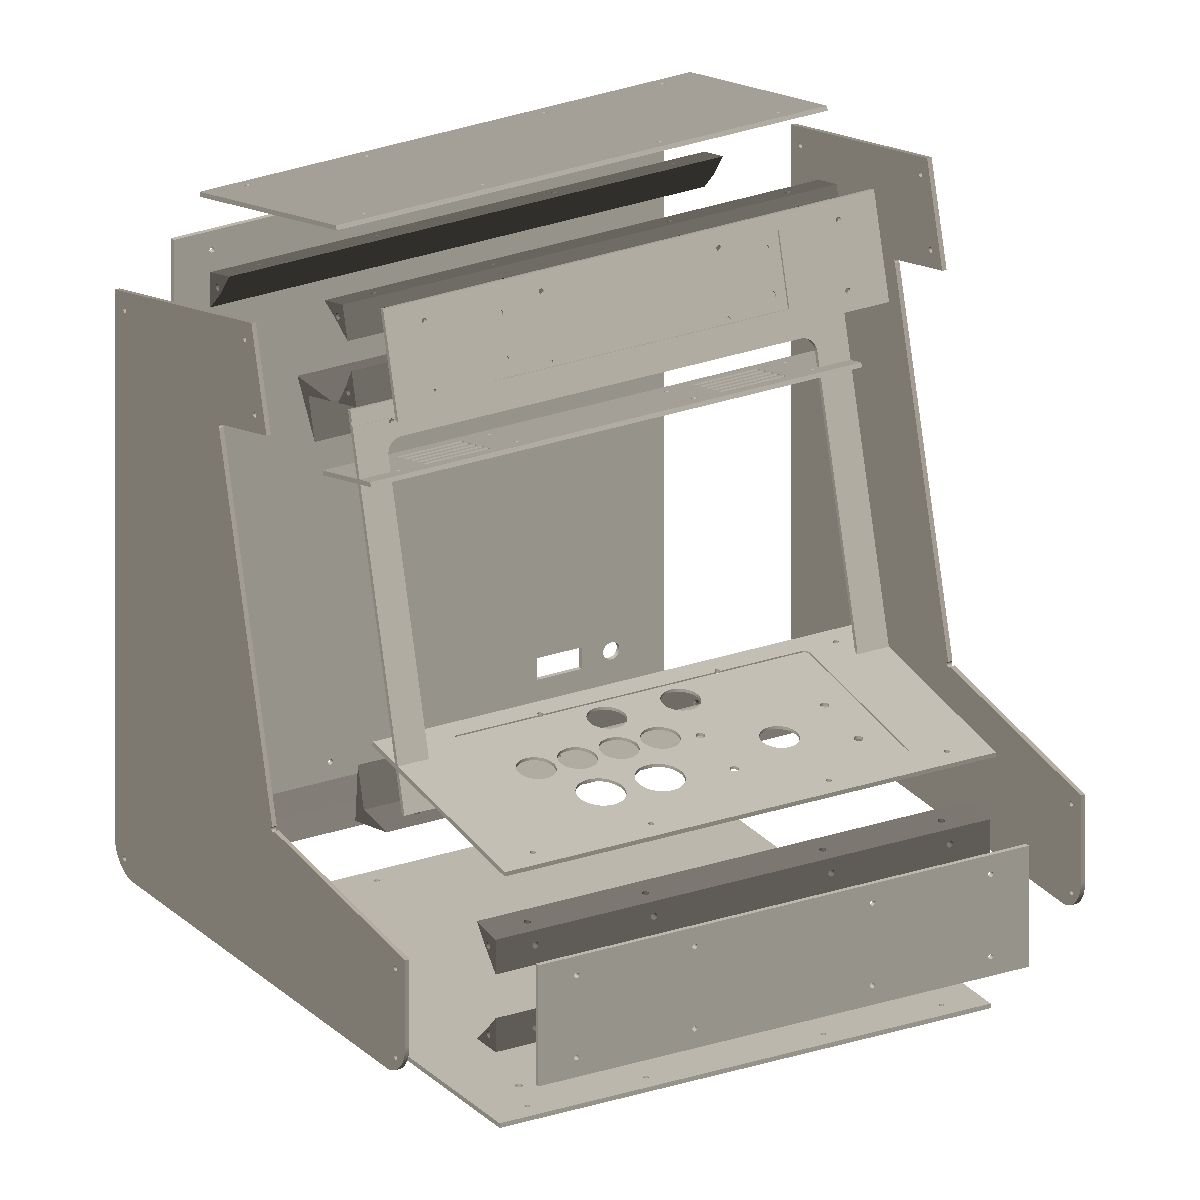
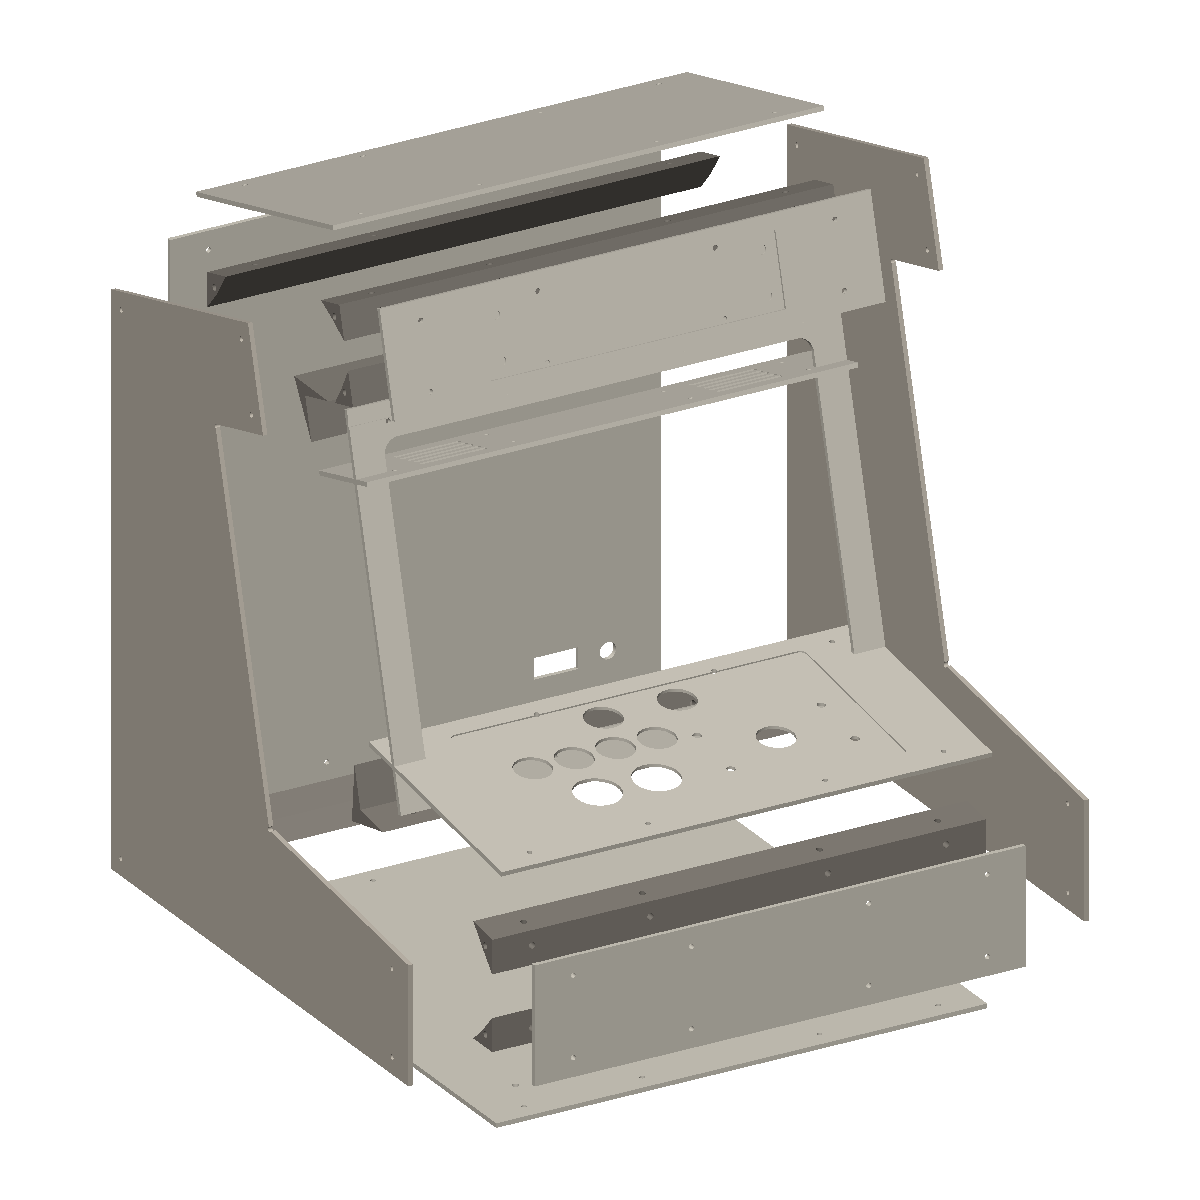
hardware: iteration 19 — side cheek plates + softer hood cap
- Full-silhouette side cheeks (4 mm, flush with shell sides, 1 mm embed)
  jut 8 mm past the nose fascia: the front reads framed between two
  plates, matching the cream-reference look and the flat-pack path
  (panels.py side plates carry the same overhang)
- Plinth groove + chin datum groove now wrap onto the cheeks
- Top cleanup: r_marquee_top 24->30, r_back_top 16->22,
  r_marquee_chin 16->20, lip_blend 6->10
- Envelope depth 340 -> 348 mm; docs/HARDWARE.md envelope corrected
  (height was stale at 441, actual 417 since iter 17)
- Chain green: solid valid, 0.000 mm^3 seams, panels + deck guard OK,
  assembly 28 components

diff --git a/hardware/cabinet.py b/hardware/cabinet.py
@@ -41,8 +41,11 @@ PARAMS = {
     "cabinet_depth_base": 340.0,   # mm, Y; base footprint depth
     "wall": 3.0,                   # mm shell wall
     "seam_fillet": 20.0,           # mm 3D blend at the deck/face seam edge
-    "lip_blend": 6.0,              # mm 3D fillet under the marquee lip
+    "lip_blend": 10.0,             # mm 3D fillet under the marquee lip
     "corner_fillet": 12.0,         # mm 3D fillet on vertical outer corners
+    # --- side cheeks (side plates proud of the nose fascia) ---------------
+    "cheek_thickness": 4.0,        # mm; outer face flush with shell sides
+    "cheek_front_overhang": 8.0,   # mm cheeks jut forward of the nose fascia
     # --- control deck ---------------------------------------------------
     "control_deck_depth": 155.0,   # mm, Y; interface span 139 + ~10% buffer
     "control_deck_height": 100.0,  # mm, Z; deck surface height at the seam
@@ -77,9 +80,9 @@ PARAMS = {
     "r_nose_bottom": 22.0,
     "r_nose_top": 18.0,
     "r_back_bottom": 10.0,
-    "r_back_top": 16.0,
-    "r_marquee_top": 24.0,
-    "r_marquee_chin": 16.0,
+    "r_back_top": 22.0,
+    "r_marquee_top": 30.0,
+    "r_marquee_chin": 20.0,
     # --- screen (13.5" 3:2 3004x2000 hi-DPI IPS + HDMI driver board) --------
     "panel_outline_w": 296.0,      # mm module outline — confirm on arrival
     "panel_outline_h": 206.0,
@@ -281,6 +284,29 @@ def build_cabinet(p=None):
         print(f"  ! vertical corner fillet skipped: {exc}")
     solid = solid.hollow([], -p["wall"])
 
+    # --- side cheeks: full-silhouette plates proud of the nose fascia -----
+    # Sheet-metal side-plate look: the cheeks frame the front of the machine
+    # and the nose fascia sits recessed between them. Outer face flush with
+    # the shell sides, plate embedded 1 mm into the wall so it always fuses.
+    ov, ct = p["cheek_front_overhang"], p["cheek_thickness"]
+    cheek_profile = [(y - ov if abs(y) < 1e-9 else y, z) for y, z in profile]
+    for sx in (-1, 1):
+        with BuildSketch(Plane.YZ) as csk:
+            with BuildLine():
+                Polyline(cheek_profile, close=True)
+            make_face()
+            for idx, radius in radii.items():
+                if radius is None:
+                    continue
+                y, z = cheek_profile[idx]
+                vtx = csk.vertices().filter_by(
+                    lambda v, y=y, z=z: abs(v.Y - y) < 1.0 and abs(v.Z - z) < 1.0
+                )
+                fillet(vtx, radius=radius)
+        solid += Pos(sx * (p["cabinet_width"] / 2 - ct / 2), 0, 0) * extrude(
+            csk.sketch, amount=ct / 2, both=True
+        )
+
     wall = p["wall"]
 
     # --- display window --------------------------------------------------
@@ -345,10 +371,17 @@ def build_cabinet(p=None):
         0, gd / 2 - 0.2, p["display_face_length"] - p["chin_groove_drop"]
     ) * Box(p["cabinet_width"] + 2, gd + 0.4, gw)
 
-    # recessed plinth line across the front fascia (wraps onto the sides)
+    # recessed plinth line across the front fascia (extended forward so the
+    # line wraps onto the proud cheek front faces too)
     solid -= Pos(
-        0, p["plinth_depth"] / 2 - 0.5, p["plinth_z_bottom"] + p["plinth_height"] / 2
-    ) * Box(p["cabinet_width"] + 2, p["plinth_depth"] + 1.0, p["plinth_height"])
+        0,
+        p["plinth_depth"] / 2 - 0.5 - p["cheek_front_overhang"] / 2,
+        p["plinth_z_bottom"] + p["plinth_height"] / 2,
+    ) * Box(
+        p["cabinet_width"] + 2,
+        p["plinth_depth"] + 1.0 + p["cheek_front_overhang"],
+        p["plinth_height"],
+    )
 
     # --- rear I/O cutouts (through the back wall) --------------------------
     back_y = p["cabinet_depth_base"]

diff --git a/hardware/panels.py b/hardware/panels.py
@@ -324,6 +324,10 @@ def main():
     PANELS_DIR.mkdir(parents=True, exist_ok=True)
     profile, radii, info = side_profile(CAB)
     segs = seg_data(profile)
+    # side plates carry the cheek overhang: proud of the nose/bottom front
+    # edges, matching the monocoque cheeks (wrap panels stay on the profile)
+    ov = CAB["cheek_front_overhang"]
+    side_pts = [(y - ov if abs(y) < 1e-9 else y, z) for y, z in profile]
     t = PP["panel_thickness"]
 
     parts = {}
@@ -342,7 +346,7 @@ def main():
         cleat_pts.append(ctr)
 
     for side, sname in ((-1, "l"), (1, "r")):
-        parts[f"side_{sname}"] = make_side_plate(profile, radii, cleat_pts, side)
+        parts[f"side_{sname}"] = make_side_plate(side_pts, radii, cleat_pts, side)
 
     # --- deck hole-position guard (a y-mirror bug slipped through the
     # visuals once; verify holes land at layout positions, world coords) ---

diff --git a/hardware/design-notes.md b/hardware/design-notes.md
@@ -320,3 +320,21 @@ switch, PSU, inserts, feet) — then an assembled render with the enclosure.
   can be reviewed. Consult #6 notes deferred/accepted: roof depth reads
   slightly slab-like in side view after the marquee shrink (accepted for
   now); material hierarchy is render-limited (per-part colors only).
+- Iteration 19 (2026-08-19, archived `iter-019` / `asm-017`): **side cheeks
+  + top cleanup** (user refs: cream bartop demo with side cheeks wrapping
+  the front; classic bartop side-view drawing). The monocoque now grows
+  two full-silhouette side cheek plates (4 mm, outer face flush with the
+  shell sides, embedded 1 mm into the wall to fuse) whose front edge juts
+  `cheek_front_overhang`=8 mm past the nose fascia — the front of the
+  machine reads framed between two plates, matching both the reference
+  look and the flat-pack path (side plates there now carry the same
+  overhang; wrap panels stay on the base profile). Plinth groove cutter
+  extended forward so the line wraps onto the cheek front faces; the chin
+  datum groove now also wraps the cheeks (continuous shadow line around
+  the whole cabinet). Envelope depth 340 -> 348 mm. Top cleanup:
+  r_marquee_top 24->30, r_back_top 16->22, r_marquee_chin 16->20,
+  lip_blend 6->10 — softer cap and less harsh undercut under the lip.
+  Chain green: solid valid, parts 0.000 mm^3 seams, panels valid + deck
+  guard OK, assembly 28 components. Watch: cheek front vertical edges are
+  sharp 3D edges (2D silhouette radii only) — fine for sheet metal, may
+  want a small 3D fillet for the print path.

diff --git a/docs/HARDWARE.md b/docs/HARDWARE.md
@@ -29,9 +29,11 @@ without restructuring the model.
 - **13.5″ 3:2 3004×2000 hi-DPI IPS** (~267 PPI) behind a 2.5 mm
   polycarbonate window with printed black mask; display deck tilted back
   15° from vertical. First-party games render 3:2 native, edge to edge.
-- Envelope **340 × 340 × 441 mm** — the 1P pivot let the screen fill ~84%
+- Envelope **340 × 348 × 417 mm** — the 1P pivot let the screen fill ~84%
   of the face (the 2P version capped at ~49% because the controls set the
-  width floor).
+  width floor). Full-silhouette **side cheek plates** frame the front,
+  jutting 8 mm past the recessed nose fascia (the sheet-metal side-plate
+  look; the flat-pack path shares the same overhang).
 - 90°-bend hood box (floor/top perpendicular to the display face) with
   down-firing speaker slots in the hood floor and a magnetic swappable
   nameplate inlay on the marquee face.
